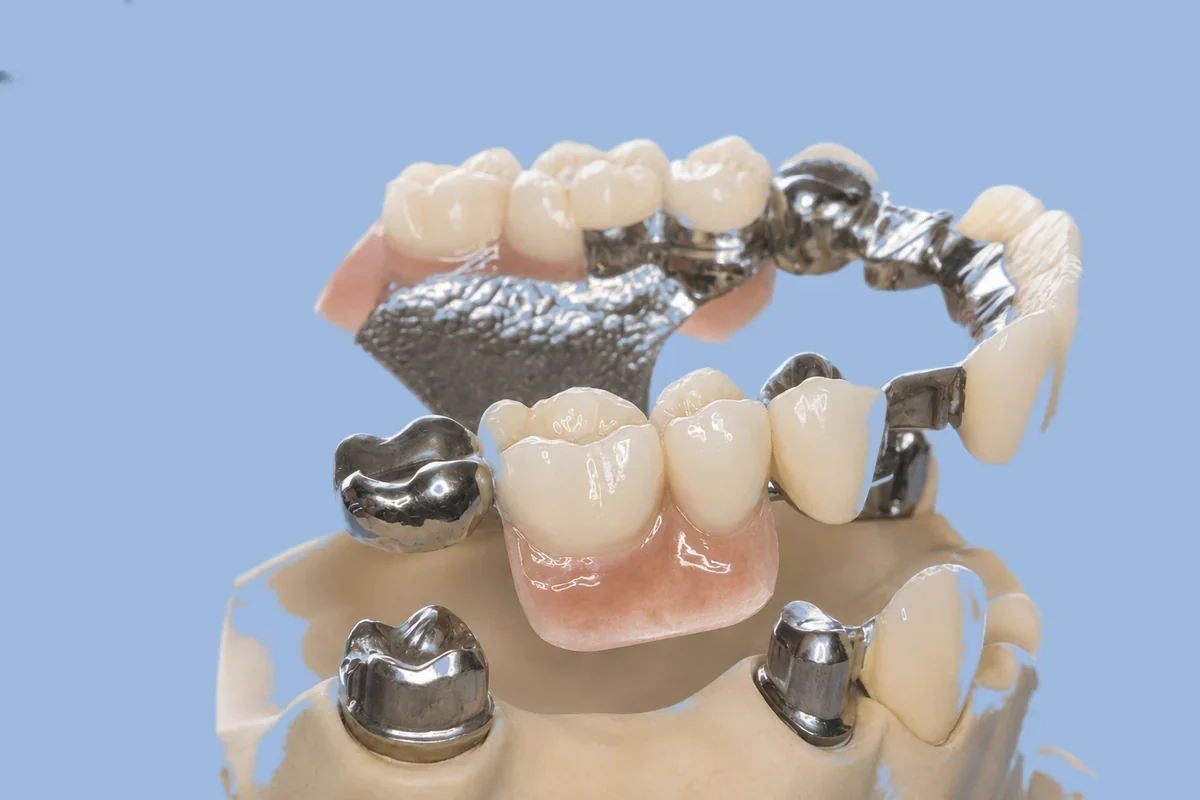
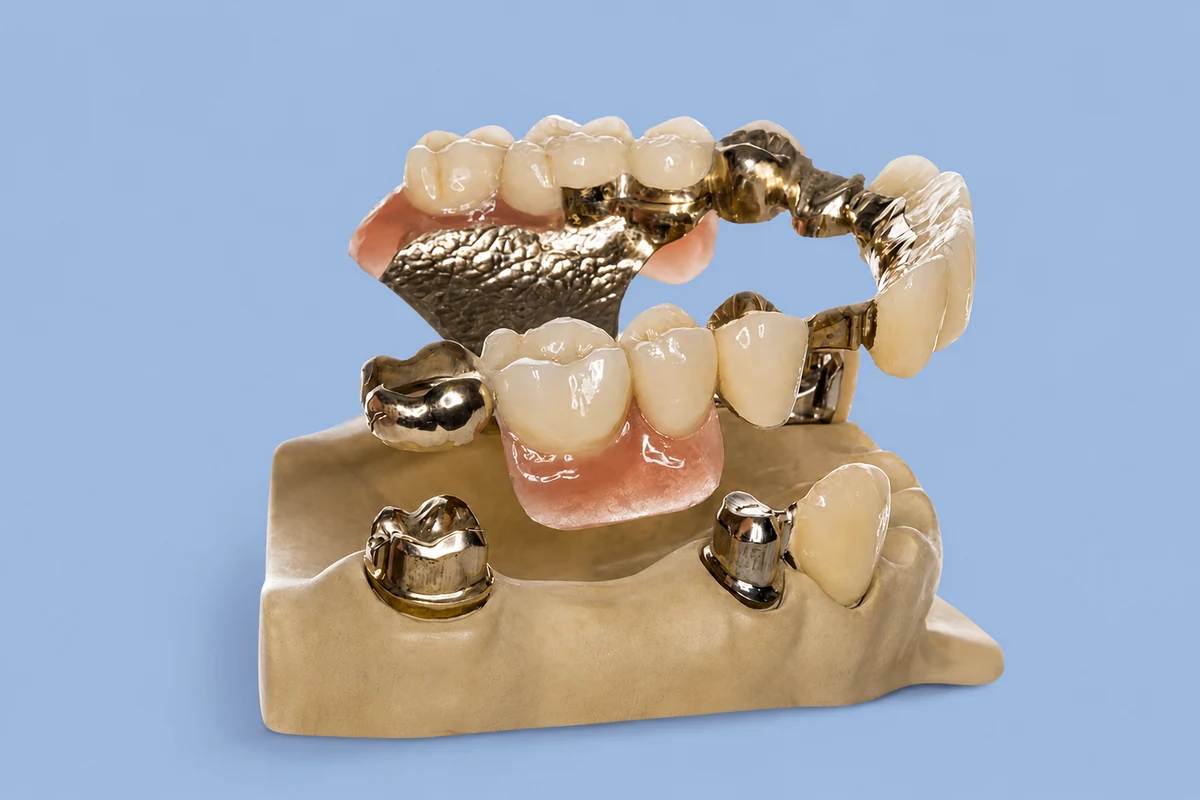
Leistungen: Bilder deutlich zurueckgenommen, ruhiger Seitenaufbau
- Illustrationen im Fliesstext jetzt kompakt: Bild links (300 px),
  Bildunterschrift daneben statt darunter. Hoehe je Bild von rund
  555 px auf 200 px reduziert.
- Bloecke Zahnerhaltung und Zahnersatz beginnen wieder mit einem
  flachen Auftaktbild (320 px), damit die Oberkante mit dem
  Menueblock abschliesst und die Ueberzeile nicht unter der
  Kopfzeile verschwindet.
- Neues Auftaktbild fuer Zahnerhaltung aus dem Komposit-Motiv,
  Hintergrund nahtlos auf Bannerformat erweitert.
- CEREC-Foto wird Auftaktbild im Zahnersatz-Block, der Satz aus der
  Bildunterschrift steht jetzt im Fliesstext.
- Teleskop-Motiv neu aufbereitet, Hintergrund korrigiert.

diff --git a/leistungen.html b/leistungen.html
@@ -35,6 +35,11 @@
 .lst-hint-ico{position:absolute;right:14px;bottom:14px;width:32px;height:32px;border-radius:50%;background:rgba(44,65,112,.10);border:1px solid rgba(44,65,112,.18);display:flex;align-items:center;justify-content:center;color:#5C6B8F;transition:all .3s ease}
 .lst-flip:hover .lst-hint-ico,.lst-flip.is-flipped .lst-hint-ico{background:#2C4170;border-color:#2C4170;color:#fff;transform:rotate(180deg)}
 .lst-hint{position:absolute;bottom:22px;left:26px;font-family:'Quicksand',sans-serif;font-size:12.5px;font-weight:600;color:#A88338;letter-spacing:.03em}
+/* kompakte Bildfiguren im Fliesstext: Bild links, Bildunterschrift daneben */
+.lst-fig{display:grid;grid-template-columns:300px minmax(0,1fr);gap:24px;align-items:center;margin:2px 0}
+.lst-fig>img{width:100%;height:auto;display:block;border-radius:12px}
+.lst-fig>figcaption{margin:0;font-size:13.5px;line-height:1.65;color:#7A8496}
+@media(max-width:760px){.lst-fig{grid-template-columns:1fr;gap:10px}.lst-fig>img{max-width:340px}}
 @media(max-width:1200px){.lst-grid{grid-template-columns:repeat(2,1fr) !important}}
 @media(max-width:640px){.lst-grid{grid-template-columns:1fr !important}}
 @media(max-width:900px){.lst-grid .lst-flip{aspect-ratio:auto !important;height:225px !important}
@@ -536,33 +541,33 @@ a.sbl:hover{color:#E2C26A !important}
 
       <div data-show="showZahnerhaltung">
         <div style="display:flex;flex-direction:column;gap:24px">
+          <div style="position:relative;width:100%;height:320px;margin-bottom:6px">
+            <img id="lsta-zahnerhaltung" src="assets/img-lsta-zahnerhaltung-hero.webp" alt="Zahn mit zahnfarbener Kompositfüllung" loading="lazy" style="position:absolute;inset:0;width:100%;height:100%;display:block;object-fit:cover;border-radius:16px">
+          </div>
+          <p style="margin:-16px 0 0;font-size:12.5px;line-height:1.5;color:#9AA3B2;text-align:right">Illustration, keine Patientenaufnahme.</p>
           <div style="font-size:12px;letter-spacing:1.5px;text-transform:uppercase;color:#A88338;font-weight:600;font-family:'Quicksand',sans-serif">Zahnerhaltung</div>
           <h2 style="margin:0;font-family:'Quicksand',sans-serif;font-size:30px;font-weight:400;color:#37538E">Ihr eigener Zahn bleibt das Beste.</h2>
           <p style="margin:0;font-size:15.5px;line-height:1.75;color:#4B5875">Ein Zahn, der erhalten werden kann, ist jedem Ersatz überlegen. Deshalb prüfen wir bei jeder Füllung zuerst, wie viel gesunde Zahnsubstanz sich bewahren lässt. Erst danach entscheiden wir gemeinsam mit Ihnen über das Material.</p>
           <h3 style="margin:6px 0 8px;font-family:'Quicksand',sans-serif;font-size:20px;font-weight:600;color:#2C4170">Komposit: die zahnfarbene Lösung für den Alltag</h3>
           <p style="margin:0;font-size:15.5px;line-height:1.75;color:#4B5875">Komposit ist ein zahnfarbener Kunststoff, der direkt im Behandlungsstuhl eingebracht und in Schichten gehärtet wird. Der Vorteil: Die Behandlung ist in einer Sitzung abgeschlossen, und es muss nur wenig Zahnsubstanz entfernt werden. Für kleine bis mittlere Defekte ist Komposit unsere Standardlösung. Bei großen Defekten und starker Kaubelastung stößt das Material allerdings an seine Grenzen.</p>
-          <div style="margin:6px 0 2px">
-            <img src="assets/img-lsta-fuellung-komposit.webp" alt="Zahn mit zahnfarbener Kompositfüllung" loading="lazy" style="width:100%;height:auto;display:block;border-radius:14px">
-            <p style="margin:8px 0 0;font-size:13px;line-height:1.55;color:#7A8496"><strong style="color:#2C4170">Komposit.</strong> Zahnfarbener Kunststoff, direkt im Behandlungsstuhl eingebracht und in Schichten gehärtet. <em style="color:#9AA3B2">Illustration, keine Patientenaufnahme.</em></p>
-          </div>
-          <h3 style="margin:6px 0 8px;font-family:'Quicksand',sans-serif;font-size:20px;font-weight:600;color:#2C4170">Keramik-Inlays mit CEREC: passgenau aus einem Stück</h3>
+                    <h3 style="margin:6px 0 8px;font-family:'Quicksand',sans-serif;font-size:20px;font-weight:600;color:#2C4170">Keramik-Inlays mit CEREC: passgenau aus einem Stück</h3>
           <p style="margin:0;font-size:15.5px;line-height:1.75;color:#4B5875">Bei größeren Defekten fertigen wir Inlays und Onlays aus Keramik. Mit CEREC entsteht die Restauration digital in unserer Praxis, sodass in vielen Fällen keine zweite Sitzung und kein Provisorium nötig sind. Keramik ist farblich kaum von der eigenen Zahnsubstanz zu unterscheiden, sehr stabil und gut verträglich. Sie ist etwas aufwendiger als eine Füllung, dafür aber deutlich belastbarer.</p>
-          <div style="margin:6px 0 2px">
-            <img src="assets/img-lsta-fuellung-keramik.webp" alt="Zahn mit Keramikinlay" loading="lazy" style="width:100%;height:auto;display:block;border-radius:14px">
-            <p style="margin:8px 0 0;font-size:13px;line-height:1.55;color:#7A8496"><strong style="color:#2C4170">Keramik.</strong> Inlay aus Keramik, mit CEREC digital gefertigt, farblich kaum vom eigenen Zahn zu unterscheiden. <em style="color:#9AA3B2">Illustration, keine Patientenaufnahme.</em></p>
-          </div>
+          <figure class="lst-fig">
+            <img src="assets/img-lsta-fuellung-keramik.webp" alt="Zahn mit Keramikinlay" loading="lazy">
+            <figcaption><strong style="color:#2C4170">Keramik.</strong> Inlay aus Keramik, mit CEREC digital gefertigt, farblich kaum vom eigenen Zahn zu unterscheiden. <em style="color:#9AA3B2">Illustration, keine Patientenaufnahme.</em></figcaption>
+          </figure>
           <h3 style="margin:6px 0 8px;font-family:'Quicksand',sans-serif;font-size:20px;font-weight:600;color:#2C4170">Gold: unauffällig gut, wo es darauf ankommt</h3>
           <p style="margin:0;font-size:15.5px;line-height:1.75;color:#4B5875">Gold wirkt altmodisch, ist es aber nicht. In bestimmten Situationen, etwa bei starkem Knirschen oder sehr engen Platzverhältnissen im Seitenzahnbereich, hält eine Goldrestauration länger und randdichter als Keramik. Sichtbar ist sie im hinteren Bereich kaum. Wir schlagen Gold dort vor, wo es fachlich die bessere Wahl ist, nicht als Standard.</p>
-          <div style="margin:6px 0 2px">
-            <img src="assets/img-lsta-fuellung-gold.webp" alt="Zahn mit Goldinlay" loading="lazy" style="width:100%;height:auto;display:block;border-radius:14px">
-            <p style="margin:8px 0 0;font-size:13px;line-height:1.55;color:#7A8496"><strong style="color:#2C4170">Gold.</strong> Sehr randdicht und langlebig, besonders bei starker Kaubelastung. Im hinteren Bereich kaum sichtbar. <em style="color:#9AA3B2">Illustration, keine Patientenaufnahme.</em></p>
-          </div>
+          <figure class="lst-fig">
+            <img src="assets/img-lsta-fuellung-gold.webp" alt="Zahn mit Goldinlay" loading="lazy">
+            <figcaption><strong style="color:#2C4170">Gold.</strong> Sehr randdicht und langlebig, besonders bei starker Kaubelastung. Im hinteren Bereich kaum sichtbar. <em style="color:#9AA3B2">Illustration, keine Patientenaufnahme.</em></figcaption>
+          </figure>
           <h3 style="margin:6px 0 8px;font-family:'Quicksand',sans-serif;font-size:20px;font-weight:600;color:#2C4170">Und was ist mit alten Amalgamfüllungen?</h3>
           <p style="margin:0;font-size:15.5px;line-height:1.75;color:#4B5875">Viele Patientinnen und Patienten tragen noch silberfarbene Amalgamfüllungen aus früheren Jahrzehnten. Neu gelegt wird Amalgam heute nicht mehr. Für vorhandene Füllungen gilt: Eine dichte, intakte Amalgamfüllung muss nicht allein deshalb ausgetauscht werden, weil sie alt ist. Anders sieht es aus, wenn der Rand undicht geworden ist, sich darunter erneut Karies gebildet hat oder die Füllung Risse zeigt. Dann tauschen wir sie aus und besprechen mit Ihnen, welches Material an dieser Stelle sinnvoll ist. Und wenn Sie sich eine zahnfarbene Lösung wünschen, auch ohne medizinische Notwendigkeit, sagen Sie es uns einfach. Wir schauen dann gemeinsam, was möglich ist.</p>
-          <div style="margin:6px 0 2px">
-            <img src="assets/img-lsta-fuellung-amalgam.webp" alt="Zahn mit älterer Amalgamfüllung" loading="lazy" style="width:100%;height:auto;display:block;border-radius:14px">
-            <p style="margin:8px 0 0;font-size:13px;line-height:1.55;color:#7A8496"><strong style="color:#2C4170">Amalgam.</strong> Silberfarbene Füllung aus früheren Jahrzehnten, im Seitenzahnbereich deutlich sichtbar. <em style="color:#9AA3B2">Illustration, keine Patientenaufnahme.</em></p>
-          </div>
+          <figure class="lst-fig">
+            <img src="assets/img-lsta-fuellung-amalgam.webp" alt="Zahn mit älterer Amalgamfüllung" loading="lazy">
+            <figcaption><strong style="color:#2C4170">Amalgam.</strong> Silberfarbene Füllung aus früheren Jahrzehnten, im Seitenzahnbereich deutlich sichtbar. <em style="color:#9AA3B2">Illustration, keine Patientenaufnahme.</em></figcaption>
+          </figure>
           <a href="https://info.frydent.de/fuellungen_patienten.html" style="display:flex;align-items:center;gap:16px;margin:20px 0;background:#F2EFE8;border:1px solid #E2D9C4;border-radius:14px;padding:16px 22px;margin:4px 0 14px;color:#4B5875;text-decoration:none" class="h-c8aff8">
             <span style="flex:none;display:flex;align-items:center;gap:0;transform:rotate(56deg);transform-origin:center"><span style="display:block;width:10px;height:10px;border-radius:50%;background:#C4A44E"></span><span style="display:block;width:24px;height:1.5px;background:linear-gradient(90deg,#C4A44E,#D8C288)"></span></span>
             <span style="font-size:14.5px;line-height:1.55">Mehr zu Füllungen und Materialien finden Sie in unserem <strong style="color:#AD8720;font-family:'Quicksand',sans-serif">Infoportal</strong>.</span>
@@ -647,32 +652,31 @@ a.sbl:hover{color:#E2C26A !important}
 
       <div data-show="showProthetik">
         <div style="display:flex;flex-direction:column;gap:24px">
+          <div style="position:relative;width:100%;height:320px;margin-bottom:20px">
+            <img id="lsta-prothetik" src="assets/img-lsta-prot-cerec.webp" alt="Keramikblock wird in der CEREC-Schleifeinheit bearbeitet" loading="lazy" style="position:absolute;inset:0;width:100%;height:100%;display:block;object-fit:cover;object-position:50% 55%;border-radius:16px">
+          </div>
           <div style="font-size:12px;letter-spacing:1.5px;text-transform:uppercase;color:#A88338;font-weight:600;font-family:'Quicksand',sans-serif">Zahnersatz und Prothetik</div>
           <h2 style="margin:0;font-family:'Quicksand',sans-serif;font-size:30px;font-weight:400;color:#37538E">Zahnersatz, der zu Ihnen passt</h2>
           <p style="margin:0;font-size:15.5px;line-height:1.75;color:#4B5875">Zahnersatz wird nötig, wenn Zähne fehlen, stark geschädigt sind oder ihre Aufgabe nicht mehr zuverlässig erfüllen. Das Spektrum reicht von einer einzelnen Krone über Brücken und herausnehmbare Prothesen bis zu umfangreichen Versorgungen auf eigenen Zähnen oder Implantaten.</p>
           <p style="margin:0;font-size:15.5px;line-height:1.75;color:#4B5875">Welche Lösung geeignet ist, hängt von Ihrer Zahnsituation ab, vom Biss, von der Belastbarkeit der vorhandenen Zähne und davon, was Ihnen im Alltag wichtig ist. Auch eine einfachere Versorgung kann die beste Entscheidung sein, wenn sie medizinisch sinnvoll ist und zuverlässig funktioniert.</p>
           <h3 style="margin:6px 0 8px;font-family:'Quicksand',sans-serif;font-size:20px;font-weight:600;color:#2C4170">Von der einzelnen Krone bis zur komplexen Versorgung</h3>
           <p style="margin:0;font-size:15.5px;line-height:1.75;color:#4B5875">Manchmal genügt eine Krone oder eine überschaubare herausnehmbare Prothese. In anderen Fällen ist mehr nötig, etwa kombinierter Zahnersatz mit Teleskopkronen oder Geschieben oder eine festsitzende Versorgung auf Implantaten.</p>
-          <div style="margin:6px 0 2px">
-            <img src="assets/img-lsta-prot-krone.webp" alt="Vollkeramische Krone für einen Backenzahn" loading="lazy" style="width:100%;height:auto;display:block;border-radius:14px">
-            <p style="margin:8px 0 0;font-size:13px;line-height:1.55;color:#7A8496"><strong style="color:#2C4170">Krone.</strong> Ersetzt den sichtbaren Teil eines stark geschädigten Zahnes. Die eigene Wurzel bleibt erhalten und trägt die Krone. <em style="color:#9AA3B2">Illustration, keine Patientenaufnahme.</em></p>
-          </div>
-          <div style="margin:6px 0 2px">
-            <img src="assets/img-lsta-prot-bruecke.webp" alt="Dreigliedrige vollkeramische Brücke" loading="lazy" style="width:100%;height:auto;display:block;border-radius:14px">
-            <p style="margin:8px 0 0;font-size:13px;line-height:1.55;color:#7A8496"><strong style="color:#2C4170">Brücke.</strong> Der fehlende Zahn in der Mitte hängt an den beiden Nachbarzähnen, die dafür überkront werden. <em style="color:#9AA3B2">Illustration, keine Patientenaufnahme.</em></p>
-          </div>
+          <figure class="lst-fig">
+            <img src="assets/img-lsta-prot-krone.webp" alt="Vollkeramische Krone für einen Backenzahn" loading="lazy">
+            <figcaption><strong style="color:#2C4170">Krone.</strong> Ersetzt den sichtbaren Teil eines stark geschädigten Zahnes. Die eigene Wurzel bleibt erhalten und trägt die Krone. <em style="color:#9AA3B2">Illustration, keine Patientenaufnahme.</em></figcaption>
+          </figure>
+          <figure class="lst-fig">
+            <img src="assets/img-lsta-prot-bruecke.webp" alt="Dreigliedrige vollkeramische Brücke" loading="lazy">
+            <figcaption><strong style="color:#2C4170">Brücke.</strong> Der fehlende Zahn in der Mitte hängt an den beiden Nachbarzähnen, die dafür überkront werden. <em style="color:#9AA3B2">Illustration, keine Patientenaufnahme.</em></figcaption>
+          </figure>
           <p style="margin:0;font-size:15.5px;line-height:1.75;color:#4B5875">Bei komplexen Ausgangssituationen betrachten wir die vorhandenen Zähne, die Kieferverhältnisse und die spätere Belastung als Ganzes. Die technisch aufwendigste Lösung ist dabei nicht automatisch die beste. Entscheidend ist, was zu Ihrer Situation passt, was sich gut pflegen lässt und was über Jahre hält.</p>
-          <div style="margin:6px 0 2px">
-            <img src="assets/img-lsta-prot-teleskop.webp" alt="Teleskopversorgung auf einem Demonstrationsmodell" loading="lazy" style="width:100%;height:auto;display:block;border-radius:14px">
-            <p style="margin:8px 0 0;font-size:13px;line-height:1.55;color:#7A8496"><strong style="color:#2C4170">Teleskopversorgung.</strong> Die Innenkronen bleiben fest auf den eigenen Zähnen, der herausnehmbare Teil wird darübergesetzt und hält ohne sichtbare Klammern. <em style="color:#9AA3B2">Aufnahme eines Demonstrationsmodells.</em></p>
-          </div>
+          <figure class="lst-fig">
+            <img src="assets/img-lsta-prot-teleskop.webp" alt="Teleskopversorgung auf einem Demonstrationsmodell" loading="lazy">
+            <figcaption><strong style="color:#2C4170">Teleskopversorgung.</strong> Die Innenkronen bleiben fest auf den eigenen Zähnen, der herausnehmbare Teil wird darübergesetzt und hält ohne sichtbare Klammern. <em style="color:#9AA3B2">Aufnahme eines Demonstrationsmodells.</em></figcaption>
+          </figure>
           <h3 style="margin:6px 0 8px;font-family:'Quicksand',sans-serif;font-size:20px;font-weight:600;color:#2C4170">Was wir im Haus machen und wo wir zusammenarbeiten</h3>
-          <p style="margin:0;font-size:15.5px;line-height:1.75;color:#4B5875">Keramischen Zahnersatz stellen wir mit CEREC häufig selbst her, meist ohne klassischen Abdruck und oft in einer Sitzung. Ob das für Ihre Versorgung in Frage kommt, zeigt die Untersuchung.</p>
-          <div style="margin:6px 0 2px">
-            <img src="assets/img-lsta-prot-cerec.webp" alt="Keramikblock wird in der CEREC-Schleifeinheit bearbeitet" loading="lazy" style="width:100%;height:auto;display:block;border-radius:14px">
-            <p style="margin:8px 0 0;font-size:13px;line-height:1.55;color:#7A8496"><strong style="color:#2C4170">Aus einem Block.</strong> Die Restauration wird nach dem digitalen Scan aus einem Keramikrohling herausgearbeitet.</p>
-          </div>
-          <p style="margin:0;font-size:15.5px;line-height:1.75;color:#4B5875">Steht ein Implantat an, setzt es Dr. Dorow in der Klinik Dogern. Alles, was danach darauf kommt, von der einzelnen Krone bis zur größeren Konstruktion, planen und fertigen wir. Für Sie heißt das: ein Ansprechpartner für den prothetischen Teil.</p>
+          <p style="margin:0;font-size:15.5px;line-height:1.75;color:#4B5875">Keramischen Zahnersatz stellen wir mit CEREC häufig selbst her, meist ohne klassischen Abdruck und oft in einer Sitzung. Die Restauration wird dabei nach dem digitalen Scan aus einem Keramikrohling herausgearbeitet. Ob das für Ihre Versorgung in Frage kommt, zeigt die Untersuchung.</p>
+                    <p style="margin:0;font-size:15.5px;line-height:1.75;color:#4B5875">Steht ein Implantat an, setzt es Dr. Dorow in der Klinik Dogern. Alles, was danach darauf kommt, von der einzelnen Krone bis zur größeren Konstruktion, planen und fertigen wir. Für Sie heißt das: ein Ansprechpartner für den prothetischen Teil.</p>
 
           <a href="https://info.frydent.de/kronen_bruecken_patienten.html" style="display:flex;align-items:center;gap:16px;margin:20px 0;background:#F2EFE8;border:1px solid #E2D9C4;border-radius:14px;padding:16px 22px;margin:4px 0 14px;color:#4B5875;text-decoration:none" class="h-c8aff8">
             <span style="flex:none;display:flex;align-items:center;gap:0;transform:rotate(56deg);transform-origin:center"><span style="display:block;width:10px;height:10px;border-radius:50%;background:#C4A44E"></span><span style="display:block;width:24px;height:1.5px;background:linear-gradient(90deg,#C4A44E,#D8C288)"></span></span>
@@ -752,24 +756,24 @@ a.sbl:hover{color:#E2C26A !important}
           <p style="margin:0;font-size:15.5px;line-height:1.75;color:#4B5875">Aligner sind transparente Schienen, die Zähne Schritt für Schritt in eine neue Position bewegen. Sie sind herausnehmbar, im Alltag kaum sichtbar und für viele Erwachsene die angenehmere Alternative zur festen Spange.</p>
           <h3 style="margin:6px 0 8px;font-family:'Quicksand',sans-serif;font-size:20px;font-weight:600;color:#2C4170">Erst planen, dann entscheiden</h3>
           <p style="margin:0;font-size:15.5px;line-height:1.75;color:#4B5875">Am Anfang steht ein digitaler Scan Ihrer Zähne oder ein Abdruck. Auf dieser Grundlage erstellt unser Partnerlabor MDH eine detaillierte Planung: Sie sehen die Ausgangssituation und das angestrebte Ergebnis nebeneinander, dazu den vollständigen Behandlungsablauf. Erst danach entscheiden Sie, ob Sie die Behandlung beginnen möchten. Es gibt an dieser Stelle keinen Druck und keine Vorleistung, die Sie zu etwas verpflichtet.</p>
-          <div style="margin:6px 0 2px">
-            <img src="assets/img-lsta-aligner-handschuhe.webp" alt="Zahnärztin prüft einen transparenten Aligner" loading="lazy" style="width:100%;height:auto;display:block;border-radius:14px">
-            <p style="margin:8px 0 0;font-size:13px;line-height:1.55;color:#7A8496"><strong style="color:#2C4170">Aligner aus dem Labor.</strong> Jede Schiene wird nach der digitalen Planung individuell für Sie gefertigt.</p>
-          </div>
+          <figure class="lst-fig">
+            <img src="assets/img-lsta-aligner-handschuhe.webp" alt="Zahnärztin prüft einen transparenten Aligner" loading="lazy">
+            <figcaption><strong style="color:#2C4170">Aligner aus dem Labor.</strong> Jede Schiene wird nach der digitalen Planung individuell für Sie gefertigt.</figcaption>
+          </figure>
           <h3 style="margin:6px 0 8px;font-family:'Quicksand',sans-serif;font-size:20px;font-weight:600;color:#2C4170">Wobei Aligner gut helfen</h3>
           <p style="margin:0;font-size:15.5px;line-height:1.75;color:#4B5875">Besonders gute Ergebnisse erreichen wir beim Schließen von Lücken zwischen den Zähnen, etwa bei einem Diastema oder bei größeren Zwischenräumen. Auch einzelne Zähne, die aus der Reihe stehen, lassen sich meist gut korrigieren. Bei Erwachsenen mit einer Lücke nach einem verlorenen Zahn ist manchmal sogar der Verzicht auf Implantat oder Brücke möglich, weil sich die verbliebenen Zähne gleichmäßig verteilen und die Lücke schließen lässt.</p>
-          <div style="margin:6px 0 2px">
-            <img src="assets/img-lsta-aligner-modell.webp" alt="Transparenter Aligner auf einem Kiefermodell" loading="lazy" style="width:100%;height:auto;display:block;border-radius:14px">
-            <p style="margin:8px 0 0;font-size:13px;line-height:1.55;color:#7A8496"><strong style="color:#2C4170">Vom Modell zur Schiene.</strong> Auf Grundlage von Scan oder Abdruck entsteht die Planung, Schritt für Schritt.</p>
-          </div>
+          <figure class="lst-fig">
+            <img src="assets/img-lsta-aligner-modell.webp" alt="Transparenter Aligner auf einem Kiefermodell" loading="lazy">
+            <figcaption><strong style="color:#2C4170">Vom Modell zur Schiene.</strong> Auf Grundlage von Scan oder Abdruck entsteht die Planung, Schritt für Schritt.</figcaption>
+          </figure>
           <h3 style="margin:6px 0 8px;font-family:'Quicksand',sans-serif;font-size:20px;font-weight:600;color:#2C4170">Wo die Grenzen liegen</h3>
           <p style="margin:0;font-size:15.5px;line-height:1.75;color:#4B5875">Ausgeprägte Kieferfehlstellungen gehören nicht in die Alignertherapie. Solche Fälle besprechen wir mit unserem kieferorthopädischen Kollegen und überweisen weiter, wenn das der bessere Weg ist. Jede Planung wird vorab mit dem Labor abgestimmt, damit von Anfang an klar ist, was realistisch erreichbar ist.</p>
           <h3 style="margin:6px 0 8px;font-family:'Quicksand',sans-serif;font-size:20px;font-weight:600;color:#2C4170">Alle zwei Wochen sehen wir uns</h3>
           <p style="margin:0;font-size:15.5px;line-height:1.75;color:#4B5875">Aligner wirken nur, wenn sie getragen werden, in der Regel rund 22 Stunden am Tag. Diese Mitarbeit ist die entscheidende Voraussetzung für das Ergebnis. Wir begleiten Sie eng: Alle zwei Wochen prüfen wir den Fortschritt und sprechen darüber, wie Sie mit den Schienen zurechtkommen. Wenn etwas nicht mehr passt, lassen wir neue Schienen anfertigen. Nach Abschluss sichern wir das Ergebnis, damit die Zähne dort bleiben, wo sie hingehören.</p>
-          <div style="margin:6px 0 2px">
-            <img src="assets/img-lsta-aligner-box.webp" alt="Aligner in einer Aufbewahrungsbox" loading="lazy" style="width:100%;height:auto;display:block;border-radius:14px">
-            <p style="margin:8px 0 0;font-size:13px;line-height:1.55;color:#7A8496"><strong style="color:#2C4170">Für den Alltag gemacht.</strong> Herausnehmbar, unauffällig und einfach zu reinigen.</p>
-          </div>
+          <figure class="lst-fig">
+            <img src="assets/img-lsta-aligner-box.webp" alt="Aligner in einer Aufbewahrungsbox" loading="lazy">
+            <figcaption><strong style="color:#2C4170">Für den Alltag gemacht.</strong> Herausnehmbar, unauffällig und einfach zu reinigen.</figcaption>
+          </figure>
           <p style="margin:0;font-size:15.5px;line-height:1.75;color:#4B5875">Wir behandeln Jugendliche und Erwachsene, die wissen, was sie möchten, und bereit sind, den Weg mitzugehen.</p>
           <a href="https://info.frydent.de/aligner_patienten.html" style="display:flex;align-items:center;gap:16px;margin:20px 0;background:#F2EFE8;border:1px solid #E2D9C4;border-radius:14px;padding:16px 22px;margin:4px 0 14px;color:#4B5875;text-decoration:none" class="h-c8aff8">
             <span style="flex:none;display:flex;align-items:center;gap:0;transform:rotate(56deg);transform-origin:center"><span style="display:block;width:10px;height:10px;border-radius:50%;background:#C4A44E"></span><span style="display:block;width:24px;height:1.5px;background:linear-gradient(90deg,#C4A44E,#D8C288)"></span></span>
